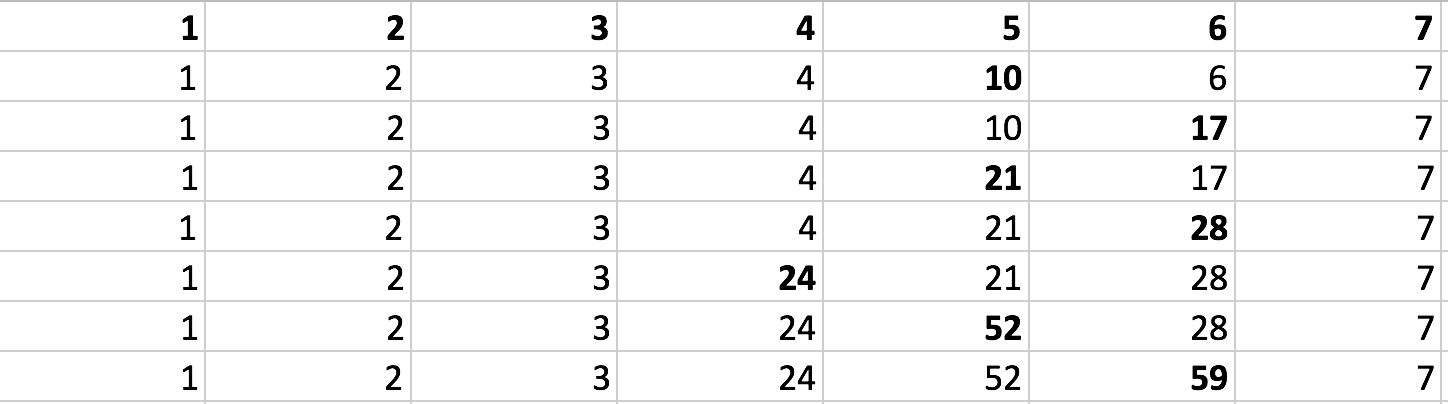
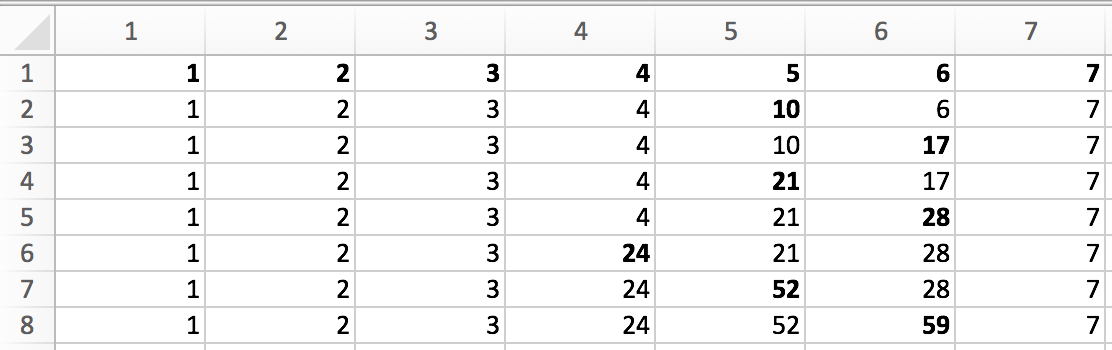
Finished four

diff --git a/AS1/results.tex b/AS1/results.tex
@@ -254,4 +254,58 @@ reliable in providing a correct result.
 
 This yields: ARGH UNSAT, HOEZO IS DIT UNSAT $:/$
 
+
+\subsection{Problem 4 : Seven integers}
+
+For problem description please see the assignment.
+
+\subsubsection{Solution}
+We introduce variables $a_{ij}$ with $1\leq i \leq 7$ and $1 \leq j \leq n$ 
+where $n$ is the total number of steps needed to reach the result.
+
+Each
+variable $a_{ij}$ represents the value of $a_i$ at step $j$. Each step at
+most one variable $a_i$ has its value is updated, that is: 
+$a_{ij} = a_{(i-1)(j-1)}+ a_{(i+1)(j-1)}$. All other variables hold their value:
+$a_{ij} = a_{i(j-1)}$.
+
+The following formulas describe the solution to the problem:
+
+\vspace{3mm}
+
+All variables $a_i$ should have the correct values in the first step $j=1$.
+\begin{equation}
+	\bigwedge_{i=1}^{1..7} a_{i1} = i
+\end{equation}
+
+\vspace{3mm}
+
+At any step $1 \le \leq n$ one variable can be updated, all others should stay
+the same:
+\begin{equation}
+	\bigwedge_{j=2}^{2..n} \bigvee_{i=1}^{1..7} 
+		\Big(a_{ij} = a_{(i-1)(j-1)} + a_{(i+1)(j-1)} \wedge
+		\bigwedge_i^{\{1..7\}\setminus \{i\}} a_{ij} = a_{i(j-1)} \Big)
+\end{equation}
+
+In the last step $j=n$ at least two $a_{in}$ should have a value over $50$. 
+\begin{equation}
+	\bigvee_{i=1}^{1..6} \Big( \bigvee_{k=i+1}^{i+1..7} 
+		a_{in} \geq 50 \wedge a_{kn} \geq 50 \Big)
+\end{equation}
+
+The complete formula exists of the conjunction of the above subformulas and can 
+be easily expressed in YICES syntax. When using YICES to check the formula
+we find that $n=8$ is the minimum value for which the formula is satisfiable.
+That means that at least 7 steps are needed after the initial step to get two
+numbers which are $\geq 50$.
+
+The table below illustrates this satisfying assignment. With value the value in
+column $i$ and row $j$ corresponding to the value of $a_{ij}$. For clarity in
+each timestep the value which is updated has been made bold.
+
+\vspace{3mm}
+
+\includegraphics[width=\textwidth]{four.png}
+
 \end{document}
